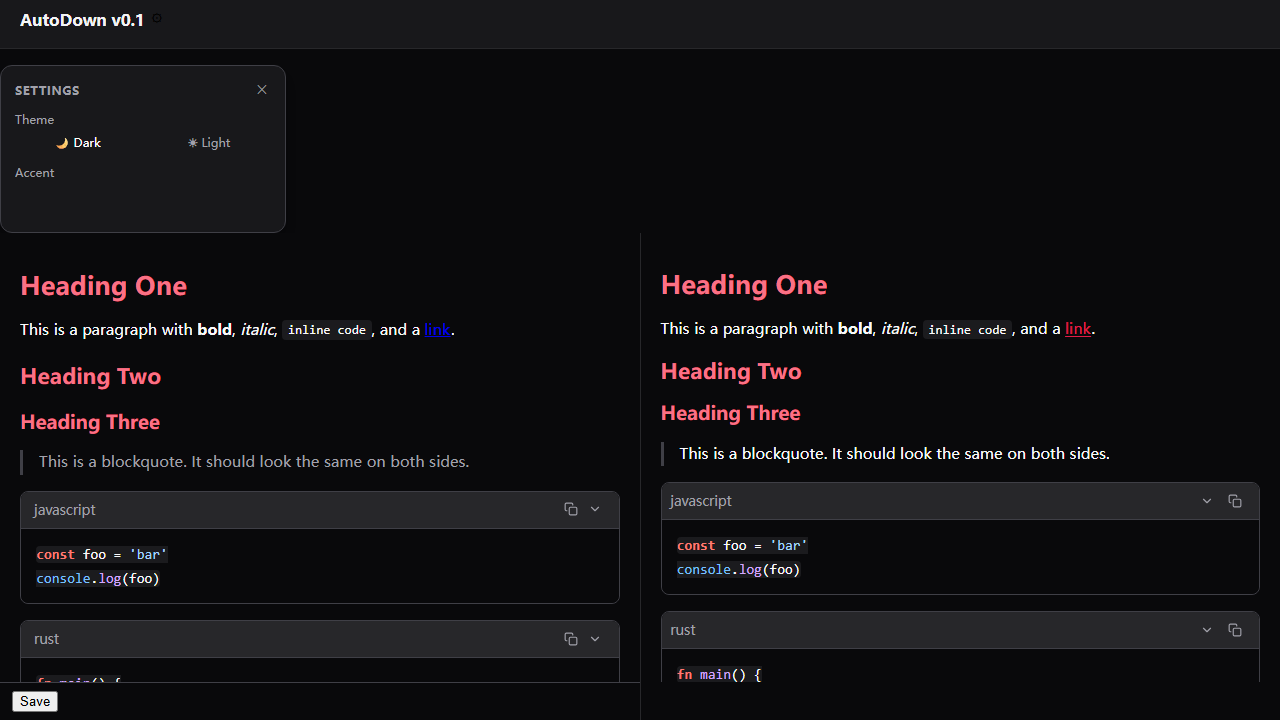
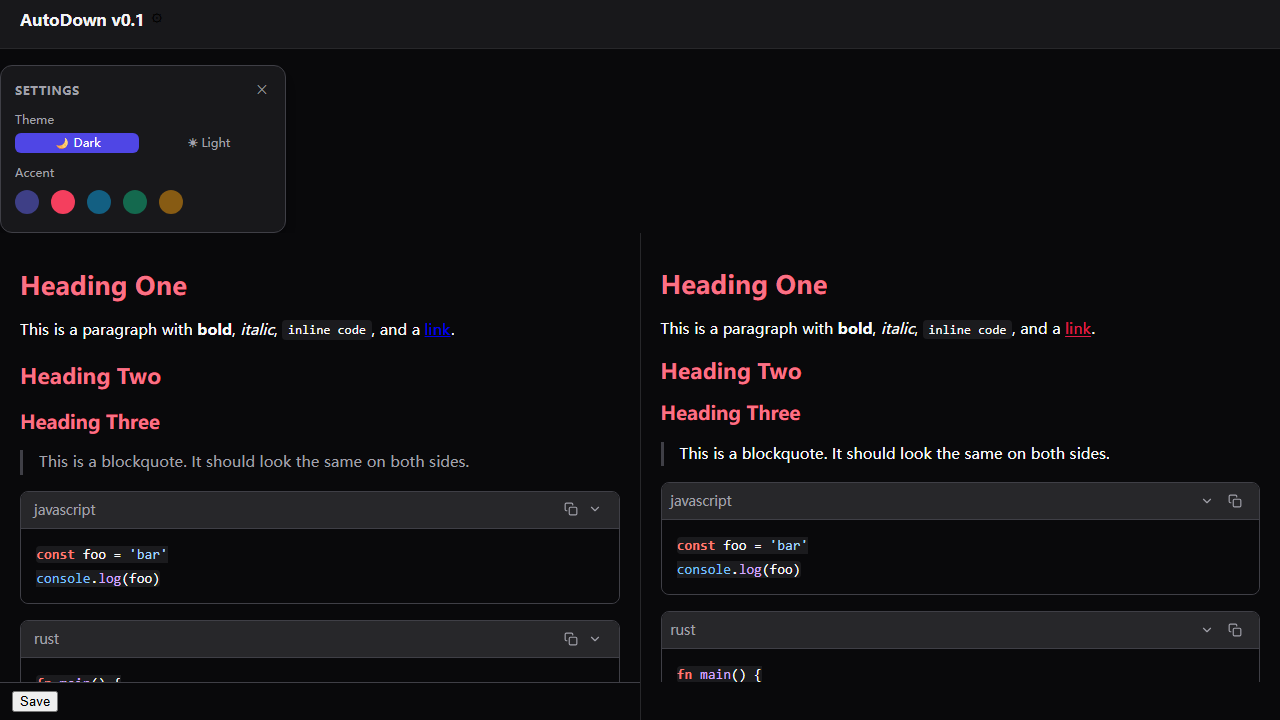
plan051-review 修正：F2 swatch 不可见——五色 bg-* 类挂 .settings-popover 作用域（裸类 scoped (0,2,0) 输给按钮重置 (0,2,1) 全透明，判读发现；作用域版 (0,3,0) 必胜）+F1 stream-demo 深色页 chrome（同 ref 驱动页根 .is-dark：页底/工具栏/栏底/标签深档，白字白底消除）；三张 vue/stream 证据 PNG 重采复判 PASS；DEBTS 增 051-候选行（F4 VM 浅档 view 臂深 chrome——master A/B 实证上游既有，非 051 引入） (Plan 

Changed region(s): [[0.0, 0.2444, 0.1562, 0.3056], [0.0, 0.1833, 0.125, 0.2139]]

diff --git a/autodown/stream-demo/src/app.css b/autodown/stream-demo/src/app.css
@@ -190,3 +190,72 @@ body {
 .stream-demo__swatch:not(.is-active) {
   opacity: 0.45;
 }
+
+/* ── PLAN-051 复审 F1 修正：深色档页 chrome——文档面 .is-dark 把文字翻白，
+   页面底/栏底/工具栏若仍是浅底即白字白底（stream-051-dark.png 判读发现）。
+   同一 darkMode ref 驱动页根 .is-dark；值对齐 Design 22 §7.1 深档。 ── */
+.stream-demo.is-dark {
+  color: #e4e4e7;
+}
+
+body:has(.stream-demo.is-dark) {
+  background: #09090b;
+}
+
+.stream-demo.is-dark .stream-demo__header h1 {
+  color: #fafafa;
+}
+
+.stream-demo.is-dark .stream-demo__header a {
+  color: #a1a1aa;
+}
+
+.stream-demo.is-dark .stream-demo__toolbar {
+  background: #18181b;
+  border-color: #3f3f46;
+  box-shadow: none;
+}
+
+.stream-demo.is-dark .stream-demo__toolbar button {
+  background: #27272a;
+  border-color: #3f3f46;
+  color: #e4e4e7;
+}
+
+.stream-demo.is-dark .stream-demo__toolbar button:hover:not(:disabled) {
+  background: #3f3f46;
+}
+
+.stream-demo.is-dark .stream-demo__toolbar button:disabled {
+  opacity: 0.45;
+}
+
+.stream-demo.is-dark .stream-demo__status,
+.stream-demo.is-dark .stream-demo__diff-report {
+  color: #a1a1aa;
+}
+
+.stream-demo.is-dark .stream-demo__diff-report {
+  color: #f87171;
+}
+
+.stream-demo.is-dark .stream-demo__diff-report.is-clean {
+  color: #4ade80;
+}
+
+.stream-demo.is-dark .stream-demo__panes {
+  background: #09090b;
+  border-color: #3f3f46;
+}
+
+.stream-demo.is-dark .stream-demo__pane {
+  background: #09090b;
+}
+
+.stream-demo.is-dark .stream-demo__pane + .stream-demo__pane {
+  border-left-color: #3f3f46;
+}
+
+.stream-demo.is-dark .stream-demo__pane-label {
+  color: #71717a;
+}

diff --git a/autodown/demo/src/components/SettingsPopover.vue b/autodown/demo/src/components/SettingsPopover.vue
@@ -214,27 +214,31 @@ function SetTheme(arg0: any): void {
             background: transparent;
         }
 
-        .bg-indigo-500 {
+        /* PLAN-051 复审 F2 修正：swatch 色类挂 .settings-popover 作用域——
+           裸类 (0,2,0 scoped) 输给按钮重置 .settings-popover button
+           (0,2,1 scoped)，五色 swatch 曾全透明（vue-051-accent-coral.png
+           判读发现）。作用域版 (0,3,0) 必胜；主题钮 active 底同升。 */
+        .settings-popover .bg-indigo-500 {
             background: #6366f1;
         }
 
-        .bg-indigo-600 {
+        .settings-popover .bg-indigo-600 {
             background: #4f46e5;
         }
 
-        .bg-rose-500 {
+        .settings-popover .bg-rose-500 {
             background: #f43f5e;
         }
 
-        .bg-sky-500 {
+        .settings-popover .bg-sky-500 {
             background: #0ea5e9;
         }
 
-        .bg-emerald-500 {
+        .settings-popover .bg-emerald-500 {
             background: #10b981;
         }
 
-        .bg-amber-500 {
+        .settings-popover .bg-amber-500 {
             background: #f59e0b;
         }
 

diff --git a/autodown/stream-demo/src/App.vue b/autodown/stream-demo/src/App.vue
@@ -80,7 +80,7 @@ onMounted(() => feed.play())
 </script>
 
 <template>
-  <div class="stream-demo">
+  <div class="stream-demo" :class="{ 'is-dark': darkMode }">
     <header class="stream-demo__header">
       <h1>AutoDown Streaming Demo · 对拍台</h1>
       <a href="https://github.com/..." target="_blank" rel="noreferrer">@autodown/engine</a>

diff --git a/DEBTS.md b/DEBTS.md
@@ -65,3 +65,4 @@
 | 048 | 风险/绕道 | 引擎债 | 🟡 | **真实键盘编辑不更新 .at state.content（T9 执行期发现）**：合成键/物理键插入在编辑壳生效（文本/光标/CJK 渲染/删除全对），但 on_change publish → 解释器 `.App.Edit` 消费链不回写 state.content（右栏预览不重渲染）；MCP `type_text` 专用通道（INPUT_TEXT+typed msg）正常——046/047 验证均走 type_text 故未暴露 | 编辑行为面（core/widget）不受影响——缺口在 demo .at 绑定消费链（widget publish 消息的解释器路径）；转介后续清册/立项，不属 PLAN-048 编辑行为范围 | PLAN-048 待澄清⑩；demo/auto/src/front/app.at oninput 接线；auto-lang autodown_editor/widget.rs publish 面 | 2026-09-04 |
 | 048 | 风险/绕道 | 平台豁免 | 🟢 | **mermaid 降级臂 header 标签实机不可见（T9 执行期发现）**：「mermaid · web-only」标签暗底低对比（vm-webonly-chrome.png 左上区放大无字），041 期既有观感项；math（048 对齐后「math · web-only」实机可见）/query「未求值」标签正常 | 标签结构三臂同构，差异在 Mermaid 家族 chrome 配色（FENCE_HEADER 族暗底 + 标签色近似）；转介 chrome 观感清册（与 046 行 thumb/内边距残段同族归宿 auto-lang 侧） | demo/auto/vm-webonly-chrome.png；demo/auto/PARITY.md #9（✅048 豁免登记）；PLAN-048 待澄清⑪ | 2026-09-04 |
 | 050 | 风险/绕道 | 引擎债 | ✅ | **fence buffer hljs 主题在构建期选定，运行时翻转 dark_mode 不重刷存量 buffer（PLAN-050 T3 余量）**：fence 正文的高亮色随 `new_leaf_buffer` 构建期读 `dark_mode()` 选 hljs 暗/浅主题；chrome 已随 D-GAP 值变化标 view_dirty 帧级翻转，但 buffer 着色不跟随（运行时切主题后已建 fence 的高亮色滞留旧主题，直到内容变更触发重建） | demo 无主题切换面（047 起 `dark_mode` 为启动期固定声明变量，无设置 UI），静态读数一致；若后续立项运行时主题切换，需在 D-GAP 标脏臂追加 buffer 主题重刷（new_leaf_buffer 换主题或 SyntaxEditor set_theme） | demo/auto/PARITY.md #13/#14；auto-lang autodown_editor/core.rs new_leaf_buffer（PLAN-050 注）；renderer.rs dynamic_view D-GAP 标脏臂 | 2026-09-04 | ——【PLAN-051 T10 销号 2026-09-04】wontfix 前提「运行时主题切换器」由 settings 面落地成立：`retheme_all_fence_buffers`（core.rs）挂 renderer 两翻转臂（Plan 370 D-GAP 值变化臂 + Plan 518 set_theme 执行臂），fence 叶 buffer `ViEditor::update_theme` 换档；`fence_buffer_rethemes_on_runtime_flip` 测试钉死（基色前景 250,250,250↔9,9,11 双向）+ 实机深浅切换 PNG 在案（vm-051-dark.png）|
+| 051-候选 | 风险/绕道 | 引擎债 | 🟡 | **VM 浅色档 view 臂深色 chrome（fence 深盘+标题深条，编辑臂全浅）**：复审 F4 判读发现；干净启动 12s 稳定复现，dark 档两臂一致（view 臂恒深档） | **master A/B 实证非 051 引入**：master 二进制（b1a08dd28 线，20:55 构建）同 demo 同分叉；PLAN-050 证档（vm-050-fence-preview）时点 view 臂浅档正常——回归落在 050 折入后的 master 并行合并（532/539/546/548/549）窗口；嫌疑面=read 臂 view 树/缓存的主题档解析（PLAN-050 D-GAP 标脏臂的重建语义或 family_of 读取时机） | 本表 050 行（销号）；PARITY #13/#14/#17；auto-lang aura_view_builder autodown 臂+StreamCache/Element 缓存 | 2026-09-04 |
